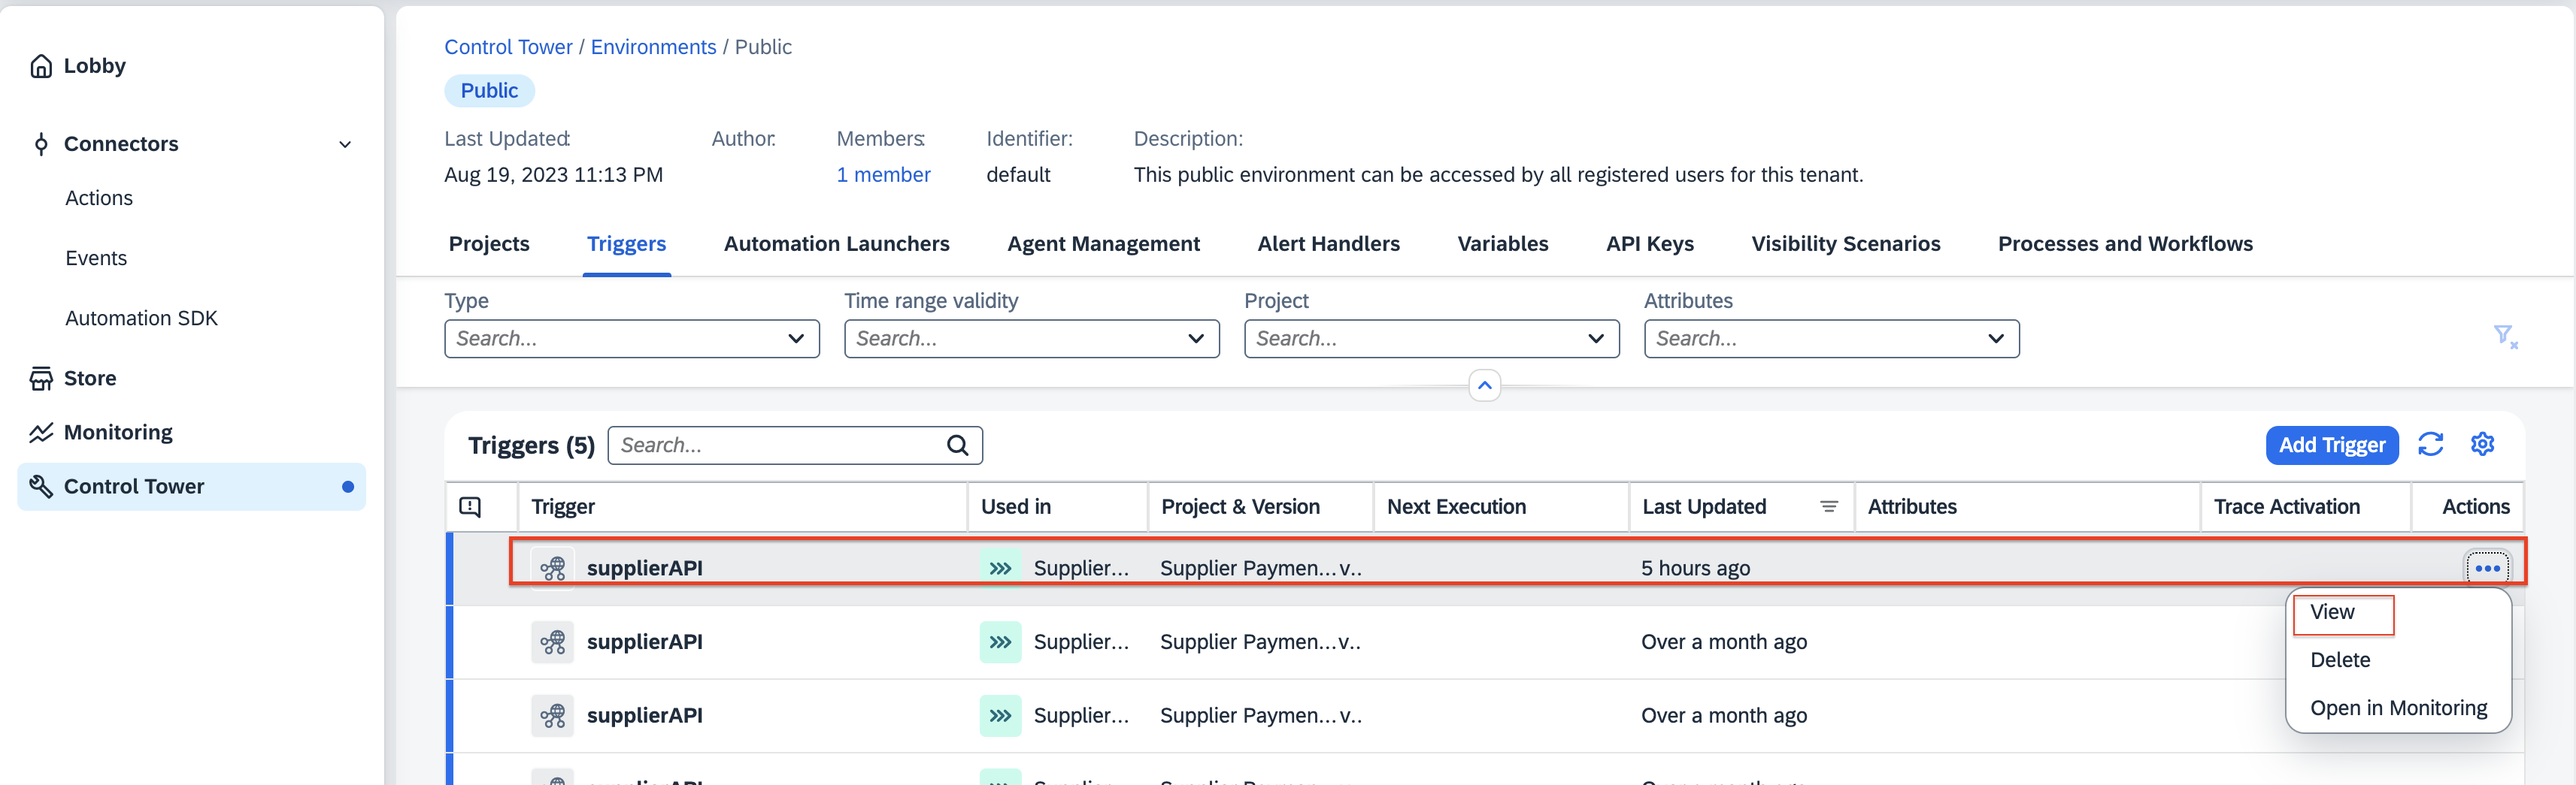
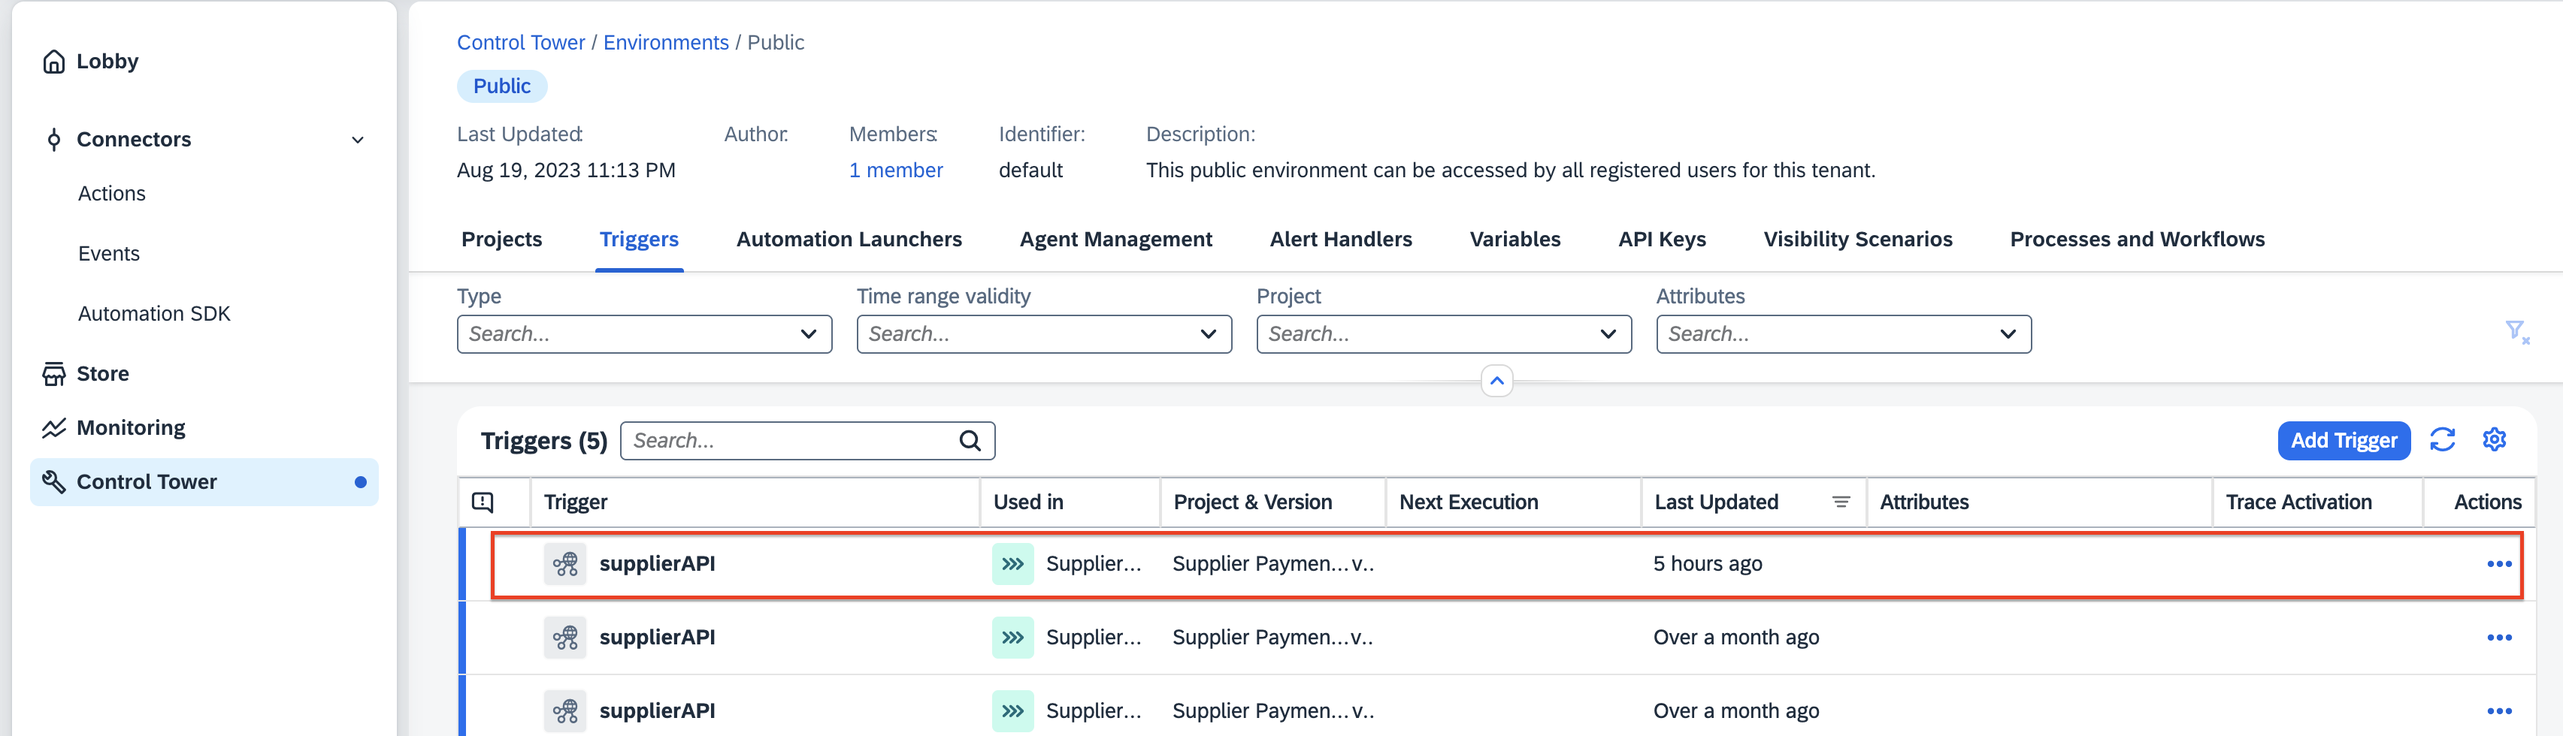
updated for documentation issues

diff --git a/documentation/deploy/deploy-cap-app/README.md b/documentation/deploy/deploy-cap-app/README.md
@@ -58,6 +58,7 @@ Now we will setup the SAP Business Application Studio and use it to develop our 
     - Choose **Triggers** tab.
     - Choose **Supplier API** -> click on **Action** (**...**) -> choose **view**
       ![Open Workspace](./images/supplier-api.png)
+      ![Open Workspace](./images/api_view.png)
 
 2. In the **View SupplierApi Details** dialog box, copy the **definitionId**.
 
